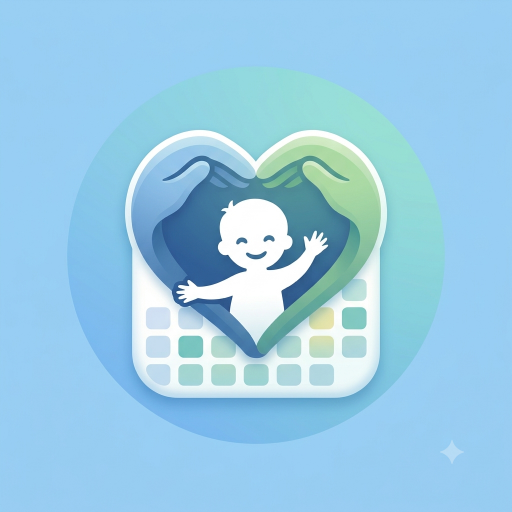
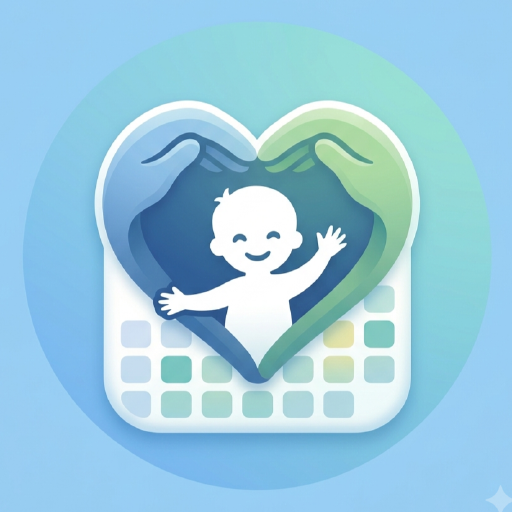
feat(landing): atualiza o ícone com o mestre revisado (825x825) (#30)
Mesma arte do app. icon-512/192.png + favicon.png por downscale determinístico
do novo mestre. Cache-bust ?v=3 -> ?v=4 nas refs de favicon.png e icon-192.png.

Claude-Session: https://claude.ai/code/session_01JpNVmcNR67BgkZw9XXszVk

diff --git a/public/blog/modelos-de-rotina-guarda-compartilhada.html b/public/blog/modelos-de-rotina-guarda-compartilhada.html
@@ -6,7 +6,7 @@
     <title>Modelos de rotina de convivência: semana alternada, 2-2-3 e mais</title>
     <meta name="description" content="Conheça os principais modelos de rotina de convivência na guarda compartilhada — semana sim/semana não, 2-2-3, 5-2 e dias fixos — com exemplos visuais para escolher o seu." />
     <link rel="canonical" href="https://guardacompartilhada.com/blog/modelos-de-rotina-guarda-compartilhada.html" />
-    <link rel="icon" type="image/png" href="/favicon.png?v=3" />
+    <link rel="icon" type="image/png" href="/favicon.png?v=4" />
     <meta name="theme-color" content="#03173d" />
     <meta property="og:type" content="article" />
     <meta property="og:locale" content="pt_BR" />
@@ -120,7 +120,7 @@
 
 <header>
     <div class="wrap nav">
-        <a class="brand" href="/"><img src="/icon-192.png?v=3" alt="" width="32" height="32" /> Guarda Compartilhada</a>
+        <a class="brand" href="/"><img src="/icon-192.png?v=4" alt="" width="32" height="32" /> Guarda Compartilhada</a>
         <nav class="nav-links" aria-label="Seções">
             <a href="/#como-funciona">Como funciona</a>
             <a href="/#beneficios">Benefícios</a>

diff --git a/public/blog/como-funciona-guarda-compartilhada.html b/public/blog/como-funciona-guarda-compartilhada.html
@@ -6,7 +6,7 @@
     <title>Como funciona a guarda compartilhada: o guia completo</title>
     <meta name="description" content="Guia completo sobre guarda compartilhada no Brasil: o que é, como é definida, direitos e deveres dos responsáveis, pensão e como organizar a convivência." />
     <link rel="canonical" href="https://guardacompartilhada.com/blog/como-funciona-guarda-compartilhada.html" />
-    <link rel="icon" type="image/png" href="/favicon.png?v=3" />
+    <link rel="icon" type="image/png" href="/favicon.png?v=4" />
     <meta name="theme-color" content="#03173d" />
     <meta property="og:type" content="article" />
     <meta property="og:locale" content="pt_BR" />
@@ -120,7 +120,7 @@
 
 <header>
     <div class="wrap nav">
-        <a class="brand" href="/"><img src="/icon-192.png?v=3" alt="" width="32" height="32" /> Guarda Compartilhada</a>
+        <a class="brand" href="/"><img src="/icon-192.png?v=4" alt="" width="32" height="32" /> Guarda Compartilhada</a>
         <nav class="nav-links" aria-label="Seções">
             <a href="/#como-funciona">Como funciona</a>
             <a href="/#beneficios">Benefícios</a>

diff --git a/public/blog/como-montar-calendario-guarda-compartilhada.html b/public/blog/como-montar-calendario-guarda-compartilhada.html
@@ -6,7 +6,7 @@
     <title>Como montar um calendário de guarda compartilhada (passo a passo)</title>
     <meta name="description" content="Guia prático para montar o calendário de convivência na guarda compartilhada: modelos de divisão de dias, feriados e férias, e como registrar tudo sem conflito." />
     <link rel="canonical" href="https://guardacompartilhada.com/blog/como-montar-calendario-guarda-compartilhada.html" />
-    <link rel="icon" type="image/png" href="/favicon.png?v=3" />
+    <link rel="icon" type="image/png" href="/favicon.png?v=4" />
     <meta name="theme-color" content="#03173d" />
 
     <meta property="og:type" content="article" />
@@ -127,7 +127,7 @@
 
 <header>
     <div class="wrap nav">
-        <a class="brand" href="/"><img src="/icon-192.png?v=3" alt="" width="32" height="32" /> Guarda Compartilhada</a>
+        <a class="brand" href="/"><img src="/icon-192.png?v=4" alt="" width="32" height="32" /> Guarda Compartilhada</a>
         <nav class="nav-links" aria-label="Seções">
             <a href="/#como-funciona">Como funciona</a>
             <a href="/#beneficios">Benefícios</a>

diff --git a/public/blog/guarda-compartilhada-x-guarda-alternada.html b/public/blog/guarda-compartilhada-x-guarda-alternada.html
@@ -6,7 +6,7 @@
     <title>Guarda compartilhada x guarda alternada: qual a diferença?</title>
     <meta name="description" content="Entenda a diferença entre guarda compartilhada, alternada e unilateral: quem decide pela criança em cada regime, o que diz a lei e os mitos mais comuns." />
     <link rel="canonical" href="https://guardacompartilhada.com/blog/guarda-compartilhada-x-guarda-alternada.html" />
-    <link rel="icon" type="image/png" href="/favicon.png?v=3" />
+    <link rel="icon" type="image/png" href="/favicon.png?v=4" />
     <meta name="theme-color" content="#03173d" />
 
     <meta property="og:type" content="article" />
@@ -127,7 +127,7 @@
 
 <header>
     <div class="wrap nav">
-        <a class="brand" href="/"><img src="/icon-192.png?v=3" alt="" width="32" height="32" /> Guarda Compartilhada</a>
+        <a class="brand" href="/"><img src="/icon-192.png?v=4" alt="" width="32" height="32" /> Guarda Compartilhada</a>
         <nav class="nav-links" aria-label="Seções">
             <a href="/#como-funciona">Como funciona</a>
             <a href="/#beneficios">Benefícios</a>

diff --git a/public/blog/index.html b/public/blog/index.html
@@ -6,7 +6,7 @@
     <title>Blog — Guarda Compartilhada: guias sobre convivência e rotina dos filhos</title>
     <meta name="description" content="Guias práticos sobre guarda compartilhada: como montar o calendário de convivência, diferença entre guarda compartilhada e alternada, e como reduzir conflito." />
     <link rel="canonical" href="https://guardacompartilhada.com/blog/" />
-    <link rel="icon" type="image/png" href="/favicon.png?v=3" />
+    <link rel="icon" type="image/png" href="/favicon.png?v=4" />
     <meta name="theme-color" content="#03173d" />
 
     <meta property="og:type" content="website" />
@@ -68,7 +68,7 @@
 
 <header>
     <div class="wrap nav">
-        <a class="brand" href="/"><img src="/icon-192.png?v=3" alt="" width="32" height="32" /> Guarda Compartilhada</a>
+        <a class="brand" href="/"><img src="/icon-192.png?v=4" alt="" width="32" height="32" /> Guarda Compartilhada</a>
         <nav class="nav-links" aria-label="Seções">
             <a href="/#como-funciona">Como funciona</a>
             <a href="/#beneficios">Benefícios</a>

diff --git a/public/index.html b/public/index.html
@@ -9,8 +9,8 @@
     <meta name="author" content="Guarda Compartilhada" />
     <meta name="robots" content="index, follow, max-image-preview:large" />
     <link rel="canonical" href="https://guardacompartilhada.com/" />
-    <link rel="icon" type="image/png" href="favicon.png?v=3" />
-    <link rel="apple-touch-icon" sizes="192x192" href="icon-192.png?v=3" />
+    <link rel="icon" type="image/png" href="favicon.png?v=4" />
+    <link rel="apple-touch-icon" sizes="192x192" href="icon-192.png?v=4" />
     <meta name="theme-color" content="#03173d" />
 
     <!-- Open Graph / social sharing -->
@@ -367,7 +367,7 @@
 <header>
     <div class="wrap nav">
         <a class="brand" href="/">
-            <img src="icon-192.png?v=3" alt="" width="32" height="32" />
+            <img src="icon-192.png?v=4" alt="" width="32" height="32" />
             Guarda Compartilhada
         </a>
         <nav class="nav-links" aria-label="Seções">

diff --git a/public/privacidade.html b/public/privacidade.html
@@ -5,7 +5,7 @@
     <meta name="viewport" content="width=device-width, initial-scale=1.0" />
     <title>Política de Privacidade — Guarda Compartilhada</title>
     <meta name="robots" content="noindex" />
-    <link rel="icon" type="image/png" href="favicon.png?v=3" />
+    <link rel="icon" type="image/png" href="favicon.png?v=4" />
     <style>
         * { margin: 0; padding: 0; box-sizing: border-box; }
         body { font-family: system-ui, -apple-system, "Segoe UI", Roboto, sans-serif; color: #1e293b; background: #f8fafc; line-height: 1.7; }

diff --git a/public/termos.html b/public/termos.html
@@ -5,7 +5,7 @@
     <meta name="viewport" content="width=device-width, initial-scale=1.0" />
     <title>Termos de Uso — Guarda Compartilhada</title>
     <meta name="robots" content="noindex" />
-    <link rel="icon" type="image/png" href="favicon.png?v=3" />
+    <link rel="icon" type="image/png" href="favicon.png?v=4" />
     <style>
         * { margin: 0; padding: 0; box-sizing: border-box; }
         body { font-family: system-ui, -apple-system, "Segoe UI", Roboto, sans-serif; color: #1e293b; background: #f8fafc; line-height: 1.7; }
